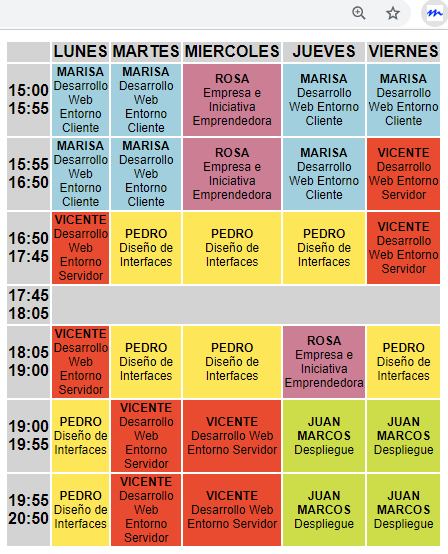
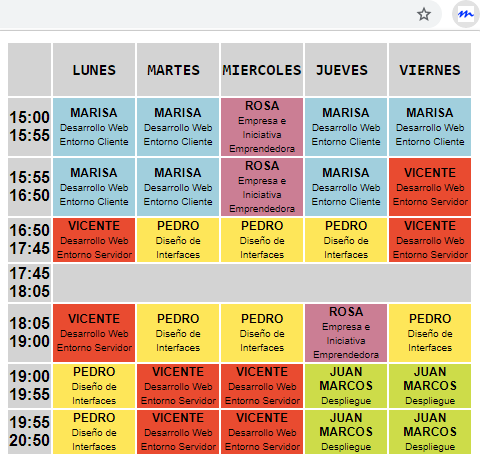
2ª versión Horario, mejorado el aspecto

diff --git a/horario.html b/horario.html
@@ -2,7 +2,7 @@
 <html>
 <head>
     <meta charset="utf-8" />
-    <title>Horario</title>
+    <title>Horario 2DAW</title>
     <meta name="viewport" content="width=device-width, initial-scale=1">
 </head>
 <style>
@@ -12,6 +12,9 @@
     table {
         text-align: center;
     }
+    span {
+        font-size: 10px;
+    }
     .encabezado {
         font-size: 16px;
         background-color: lightgray;
@@ -20,10 +23,10 @@
         background-color: #A1CFDD;
     }
     .es {
-        background-color: #FEE659;
+        background-color: #E94B30;       
     }
     .di {
-        background-color: #E94B30;
+        background-color: #FEE659;
     }
     .da {
         background-color: #CDDC49;
@@ -36,35 +39,35 @@
     <table>
         <tr class="encabezado">
             <th></th>
-            <th>LUNES</th>
-            <th>MARTES</th>
-            <th>MIERCOLES</th>
-            <th>JUEVES</th>
-            <th>VIERNES</th>
+            <th><pre>  LUNES  </pre></th>
+            <th><pre> MARTES  </pre></th>
+            <th><pre>MIERCOLES</pre></th>
+            <th><pre> JUEVES  </pre></th>
+            <th><pre> VIERNES </pre></th>
         </tr>
         <tr>
             <th class="encabezado">15:00<br>15:55</th>
-            <td class="ec"><strong>MARISA</strong><br>Desarrollo Web Entorno Cliente</td>
-            <td class="ec"><strong>MARISA</strong><br>Desarrollo Web Entorno Cliente</td>
-            <td class="ee"><strong>ROSA</strong><br>Empresa e Iniciativa Emprendedora</td>
-            <td class="ec"><strong>MARISA</strong><br>Desarrollo Web Entorno Cliente</td>
-            <td class="ec"><strong>MARISA</strong><br>Desarrollo Web Entorno Cliente</td>
+            <td class="ec"><strong>MARISA</strong><br><span>Desarrollo Web Entorno Cliente</span></td>
+            <td class="ec"><strong>MARISA</strong><br><span>Desarrollo Web Entorno Cliente</span></td>
+            <td class="ee"><strong>ROSA</strong><br><span>Empresa e Iniciativa Emprendedora</span></td>
+            <td class="ec"><strong>MARISA</strong><br><span>Desarrollo Web Entorno Cliente</span></td>
+            <td class="ec"><strong>MARISA</strong><br><span>Desarrollo Web Entorno Cliente</span></td>
         </tr>
         <tr>
             <th class="encabezado">15:55<br>16:50</th>
-            <td class="ec"><strong>MARISA</strong><br>Desarrollo Web Entorno Cliente</td>
-            <td class="ec"><strong>MARISA</strong><br>Desarrollo Web Entorno Cliente</td>
-            <td class="ee"><strong>ROSA</strong><br>Empresa e Iniciativa Emprendedora</td>
-            <td class="ec"><strong>MARISA</strong><br>Desarrollo Web Entorno Cliente</td>
-            <td class="es"><strong>VICENTE</strong><br>Desarrollo Web Entorno Servidor</td>
+            <td class="ec"><strong>MARISA</strong><br><span>Desarrollo Web Entorno Cliente</span></td>
+            <td class="ec"><strong>MARISA</strong><br><span>Desarrollo Web Entorno Cliente</span></td>
+            <td class="ee"><strong>ROSA</strong><br><span>Empresa e Iniciativa Emprendedora</span></td>
+            <td class="ec"><strong>MARISA</strong><br><span>Desarrollo Web Entorno Cliente</span></td>
+            <td class="es"><strong>VICENTE</strong><br><span>Desarrollo Web Entorno Servidor</span></td>
         </tr>
         <tr>
             <th class="encabezado">16:50<br>17:45</th>
-            <td class="es"><strong>VICENTE</strong><br>Desarrollo Web Entorno Servidor</td>
-            <td class="di"><strong>PEDRO</strong><br>Diseño de Interfaces</td>
-            <td class="di"><strong>PEDRO</strong><br>Diseño de Interfaces</td>
-            <td class="di"><strong>PEDRO</strong><br>Diseño de Interfaces</td>
-            <td class="es"><strong>VICENTE</strong><br>Desarrollo Web Entorno Servidor</td>
+            <td class="es"><strong>VICENTE</strong><br><span>Desarrollo Web Entorno Servidor</span></td>
+            <td class="di"><strong>PEDRO</strong><br><span>Diseño de Interfaces</span></td>
+            <td class="di"><strong>PEDRO</strong><br><span>Diseño de Interfaces</span></td>
+            <td class="di"><strong>PEDRO</strong><br><span>Diseño de Interfaces</span></td>
+            <td class="es"><strong>VICENTE</strong><br><span>Desarrollo Web Entorno Servidor</span></td>
         </tr>
         <tr>
             <th class="encabezado">17:45<br>18:05</th>
@@ -72,27 +75,27 @@
         </tr>
         <tr>
             <th class="encabezado">18:05<br>19:00</th>
-            <td class="es"><strong>VICENTE</strong><br>Desarrollo Web Entorno Servidor</td>
-            <td class="di"><strong>PEDRO</strong><br>Diseño de Interfaces</td>
-            <td class="di"><strong>PEDRO</strong><br>Diseño de Interfaces</td>
-            <td class="ee"><strong>ROSA</strong><br>Empresa e Iniciativa Emprendedora</td>
-            <td class="di"><strong>PEDRO</strong><br>Diseño de Interfaces</td>
+            <td class="es"><strong>VICENTE</strong><br><span>Desarrollo Web Entorno Servidor</span></td>
+            <td class="di"><strong>PEDRO</strong><br><span>Diseño de Interfaces</span></td>
+            <td class="di"><strong>PEDRO</strong><br><span>Diseño de Interfaces</span></td>
+            <td class="ee"><strong>ROSA</strong><br><span>Empresa e Iniciativa Emprendedora</span></td>
+            <td class="di"><strong>PEDRO</strong><br><span>Diseño de Interfaces</span></td>
         </tr>
         <tr>
             <th class="encabezado">19:00<br>19:55</th>
-            <td class="di">PEDRO<br>Diseño de Interfaces</td>
-            <td class="es"><strong>VICENTE</strong><br>Desarrollo Web Entorno Servidor</td>
-            <td class="es"><strong>VICENTE</strong><br>Desarrollo Web Entorno Servidor</td>
-            <td class="da"><strong>JUAN MARCOS</strong><br>Despliegue</td>
-            <td class="da"><strong>JUAN MARCOS</strong><br>Despliegue</td>
+            <td class="di"><strong>PEDRO</strong><br><span>Diseño de Interfaces</span></td>
+            <td class="es"><strong>VICENTE</strong><br><span>Desarrollo Web Entorno Servidor</span></td>
+            <td class="es"><strong>VICENTE</strong><br><span>Desarrollo Web Entorno Servidor</span></td>
+            <td class="da"><strong>JUAN MARCOS</strong><br><span>Despliegue</span></td>
+            <td class="da"><strong>JUAN MARCOS</strong><br><span>Despliegue</span></td>
         </tr>
         <tr>
             <th class="encabezado">19:55<br>20:50</th>
-            <td class="di"><strong>PEDRO</strong><br>Diseño de Interfaces</td>
-            <td class="es"><strong>VICENTE</strong><br>Desarrollo Web Entorno Servidor</td>
-            <td class="es"><strong>VICENTE</strong><br>Desarrollo Web Entorno Servidor</td>
-            <td class="da"><strong>JUAN MARCOS</strong><br>Despliegue</td>
-            <td class="da"><strong>JUAN MARCOS</strong><br>Despliegue</td>
+            <td class="di"><strong>PEDRO</strong><br><span>Diseño de Interfaces</span></td>
+            <td class="es"><strong>VICENTE</strong><br><span>Desarrollo Web Entorno Servidor</span></td>
+            <td class="es"><strong>VICENTE</strong><br><span>Desarrollo Web Entorno Servidor</span></td>
+            <td class="da"><strong>JUAN MARCOS</strong><br><span>Despliegue</span></td>
+            <td class="da"><strong>JUAN MARCOS</strong><br><span>Despliegue</span></td>
         </tr>
     </table> 
 </body>
